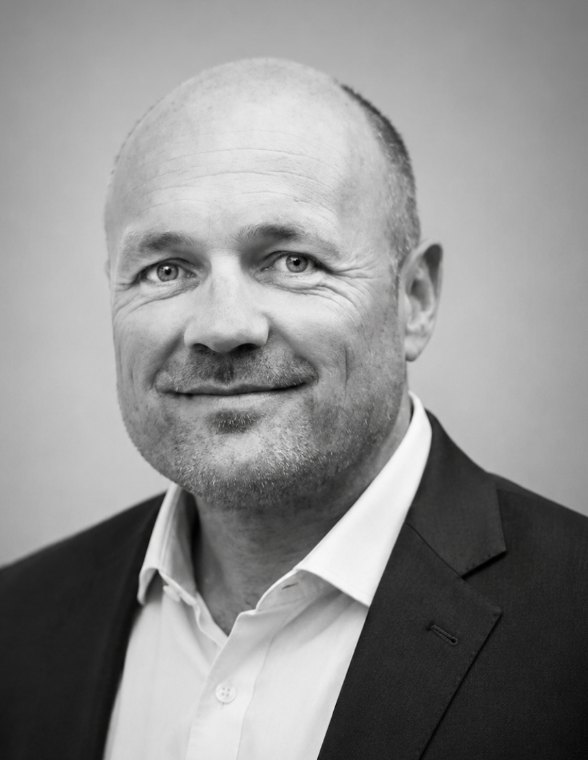
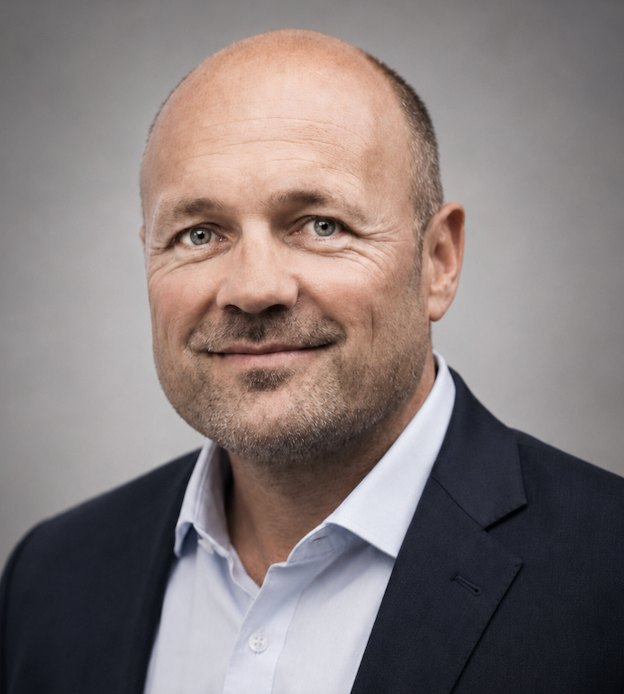
about: color board portraits + tightened bios
Replace the greyscale Munkhaugen/Svenkerud portraits with the colour
versions (re-optimized to ~50-65KB JPEG) and remove the source PNGs.
Condense the four board bios to two crisp sentences each (en + no) for a
more professional read in the 2x2 grid.

diff --git a/i18n.js b/i18n.js
@@ -894,15 +894,15 @@
       "about.board.s3.status": "Special Advisor",
       "about.board.s4.status": "Board Member",
       "about.board.s5.status": "Technical Director",
-      "about.board.s1.bio": "Erik Selin is the founder of Fastighets AB Balder, one of Europe's leading real estate companies. Since founding the company, he has built Balder into a listed property group with assets exceeding NOK 200 billion. Erik serves as Chairman and largest shareholder and is a prominent Nordic investor with extensive experience from real estate, capital markets and long-term company building. He also holds several board positions in listed companies.",
+      "about.board.s1.bio": "Founder, chairman and largest shareholder of Fastighets AB Balder, one of Europe's leading listed property groups, with assets exceeding NOK 200 billion. A prominent Nordic investor with deep roots in real estate and capital markets.",
       "about.board.s2.bio": "Vegard holds an MSc from the Norwegian School of Economics and has spent his entire career in real estate and property development. He has extensive operational experience from both project management and executive roles, and has played a key role in delivering some of Norway's largest development projects. Today, he leads Byggteknikk Utvikling AS, which is jointly owned with the Svendsen family.",
       "about.board.s3.bio": "Pål Morten holds a BBA from Trondheim Business School and has worked in real estate since 2005. He has held several key roles in the Norwegian real estate industry, including as CEO and co-owner of HENT's real estate platform. He founded Bolig Norge and continues to lead the company, which is jointly owned with Fastighets AB Balder.",
-      "about.board.s4.bio": "Magnus Svendsen is the CEO of Byggteknikk, a family office with investments across real estate, funds and technology. He has been an active angel investor in early-stage technology companies for more than 20 years, with investments including Tibber, Easee and Kiona. Magnus holds an MSc in Mechanical Engineering from NTNU, a Master's degree in Finance, and an MBA from the University of Newcastle, Australia.",
+      "about.board.s4.bio": "CEO of Byggteknikk, a family office investing across real estate, funds and technology. An active early-stage technology angel for over 20 years, with investments including Tibber, Easee and Kiona.",
       "about.board.s5.bio": "Kristian Nossum holds an engineering degree from Trondheim College of Engineering and has more than 30 years of experience from Skanska. He brings broad technical expertise across architecture, geotechnics, structural engineering, acoustics and building application processes. Kristian actively contributes to the development of Builtly's technical modules and quality-assures the platform's professional content.",
       "about.board.s6.name": "Roar Munkhaugen",
       "about.board.s7.name": "Tollef Svenkerud",
-      "about.board.s6.bio": "Roar Munkhaugen owns and leads Heimdal Bolig, one of Central Norway's largest residential developers, which he took over from the Heimdal Group. The Heimdal Group historically also held the contractor HENT — today part of Sentia ASA, a Nordic construction group listed on Oslo Børs and one of the region's largest contractors. Roar contributes decades of operational experience from large-scale residential development and construction.",
-      "about.board.s7.bio": "Tollef Svenkerud is the co-founder and co-owner of Fredensborg Bolig, which he owns together with Ivar Tollefsen's Fredensborg AS. With more than 20 years in real estate, he has built and sold over 1,500 homes with a combined sales value exceeding NOK 5 billion, and has founded and owned several companies along the way. He is particularly active in acquisition, transactions and financing. Fredensborg Bolig is a nationwide developer with thousands of homes under development.",
+      "about.board.s6.bio": "Owner and CEO of Heimdal Bolig, one of Central Norway's largest residential developers, which he took over from the Heimdal Group. Brings decades of operational experience from large-scale residential development.",
+      "about.board.s7.bio": "Co-founder and co-owner of Fredensborg Bolig, a nationwide developer with thousands of homes in its pipeline. With over 20 years in real estate, he has delivered more than 1,500 homes worth over NOK 5 billion, focused on acquisition, transactions and financing.",
       "about.team.smark.num": "§ 05",
       "about.team.smark.label": "Technical leadership",
       "about.team.smark.tag": "Technical depth in daily operations",
@@ -2783,15 +2783,15 @@
       "about.board.s3.status": "Spesialrådgiver",
       "about.board.s4.status": "Styremedlem",
       "about.board.s5.status": "Faglig leder",
-      "about.board.s1.bio": "Erik Selin er grunnleggeren av Fastighets AB Balder, et av Europas ledende eiendomsselskaper. Siden etableringen har han bygget Balder til et børsnotert eiendomskonsern med eiendomsverdier på over 200 milliarder kroner. Erik er styreleder og største eier i selskapet, og er en betydelig nordisk investor med bred erfaring fra eiendom, kapitalmarkeder og langsiktig selskapsbygging. Han har også flere styreverv i børsnoterte selskaper.",
+      "about.board.s1.bio": "Grunnlegger, styreleder og største aksjonær i Fastighets AB Balder, et av Europas ledende børsnoterte eiendomskonsern, med verdier på over 200 milliarder kroner. En markant nordisk investor med dype røtter i eiendom og kapitalmarkeder.",
       "about.board.s2.bio": "Vegard har en MSc fra Norges Handelshøyskole og har hele sin karriere jobbet innen eiendom og eiendomsutvikling. Han har bred operativ erfaring fra både prosjektleder- og lederroller, og har vært sentral i gjennomføringen av flere av Norges største utviklingsprosjekter. I dag leder han Byggteknikk Utvikling AS, som eies i fellesskap med familien Svendsen.",
       "about.board.s3.bio": "Pål Morten har en BBA fra Handelshøyskolen i Trondheim og har arbeidet med eiendom siden 2005. Han har hatt flere sentrale roller i norsk eiendomsbransje, blant annet som daglig leder og medeier i HENTs eiendomssatsing. Han etablerte Bolig Norge og leder fortsatt selskapet, som eies i fellesskap med Fastighets AB Balder.",
-      "about.board.s4.bio": "Magnus Svendsen er daglig leder i Byggteknikk, et familieselskap med investeringer innen eiendom, fond og teknologi. Han har også vært en aktiv engleinvestor i tidligfase teknologiselskaper i over 20 år, med investeringer i blant annet Tibber, Easee og Kiona. Magnus har sivilingeniørgrad i maskinteknikk fra NTNU, mastergrad i finans og MBA fra University of Newcastle i Australia.",
+      "about.board.s4.bio": "Daglig leder i Byggteknikk, et family office med investeringer innen eiendom, fond og teknologi. Aktiv tidligfase-teknologiinvestor i over 20 år, med investeringer som Tibber, Easee og Kiona.",
       "about.board.s5.bio": "Kristian Nossum er utdannet ingeniør fra Trondheim tekniske høgskole og har over 30 års erfaring fra Skanska. Han har en sjelden bredde i teknisk kompetanse, med erfaring fra ansvarsrett innen seks fagområder: ARK, GEO, RIG, RIB, RIAKU og SØK. Kristian bidrar aktivt til utviklingen av Builtlys tekniske moduler og kvalitetssikrer plattformens faglige innhold.",
       "about.board.s6.name": "Roar Munkhaugen",
       "about.board.s7.name": "Tollef Svenkerud",
-      "about.board.s6.bio": "Roar Munkhaugen eier og leder Heimdal Bolig, en av Midt-Norges største boligutviklere, som han overtok fra Heimdal Gruppen. Heimdal Gruppen hadde tidligere også entreprenøren HENT — i dag en del av Sentia ASA, et nordisk byggekonsern notert på Oslo Børs og en av regionens største entreprenører. Roar bidrar med lang operativ erfaring fra storskala boligutvikling og entreprenørvirksomhet.",
-      "about.board.s7.bio": "Tollef Svenkerud er medgründer og medeier av Fredensborg Bolig, som han eier sammen med Ivar Tollefsens Fredensborg AS. Med over 20 års erfaring fra eiendom har han bygget og solgt mer enn 1 500 boliger til en samlet salgsverdi på over 5 milliarder kroner, og har grunnlagt og eid flere selskaper underveis. Han er særlig aktiv innen akkvisisjon, transaksjoner og finansiering. Fredensborg Bolig er en landsdekkende boligutvikler med flere tusen boliger under utvikling.",
+      "about.board.s6.bio": "Eier og daglig leder i Heimdal Bolig, en av Midt-Norges største boligutviklere, som han overtok fra Heimdal Gruppen. Har flere tiår med operativ erfaring fra storskala boligutvikling.",
+      "about.board.s7.bio": "Medgründer og medeier i Fredensborg Bolig, en landsdekkende utbygger med tusenvis av boliger under utvikling. Med over 20 år i eiendom har han levert mer enn 1 500 boliger til en verdi av over 5 milliarder kroner, med vekt på oppkjøp, transaksjoner og finansiering.",
       "about.team.smark.num": "§ 05",
       "about.team.smark.label": "Faglig ledelse",
       "about.team.smark.tag": "Teknisk dybde i daglig drift",

diff --git a/about.html b/about.html
@@ -930,7 +930,7 @@ footer{background:var(--bg-soft);padding:64px 0 28px;color:var(--ink-soft);borde
 <div class="seat-body">
 <div class="seat-role-tag" data-i18n="about.seat.role.chair">Chair · Board</div>
 <h3 class="seat-name" data-i18n="about.board.s4.name">Magnus Svendsen</h3>
-<p class="seat-bio" data-i18n="about.board.s4.bio">Magnus Svendsen is the CEO of Byggteknikk, a family office with investments across real estate, funds and technology. He has been an active angel investor in early-stage technology companies for more than 20 years, with investments including Tibber, Easee and Kiona. Magnus holds an MSc in Mechanical Engineering from NTNU, a Master's degree in Finance, and an MBA from the University of Newcastle, Australia.</p>
+<p class="seat-bio" data-i18n="about.board.s4.bio">CEO of Byggteknikk, a family office investing across real estate, funds and technology. An active early-stage technology angel for over 20 years, with investments including Tibber, Easee and Kiona.</p>
 </div>
 </article>
 
@@ -942,7 +942,7 @@ footer{background:var(--bg-soft);padding:64px 0 28px;color:var(--ink-soft);borde
 <div class="seat-body">
 <div class="seat-role-tag" data-i18n="about.seat.role.advisor">Board Member</div>
 <h3 class="seat-name" data-i18n="about.board.s1.name">Erik Selin</h3>
-<p class="seat-bio" data-i18n="about.board.s1.bio">Erik Selin is the founder of Fastighets AB Balder, one of Europe's leading real estate companies. Since founding the company, he has built Balder into a listed property group with assets exceeding NOK 200 billion. Erik serves as Chairman and largest shareholder and is a prominent Nordic investor with extensive experience from real estate, capital markets and long-term company building. He also holds several board positions in listed companies.</p>
+<p class="seat-bio" data-i18n="about.board.s1.bio">Founder, chairman and largest shareholder of Fastighets AB Balder, one of Europe's leading listed property groups, with assets exceeding NOK 200 billion. A prominent Nordic investor with deep roots in real estate and capital markets.</p>
 </div>
 </article>
 
@@ -954,7 +954,7 @@ footer{background:var(--bg-soft);padding:64px 0 28px;color:var(--ink-soft);borde
 <div class="seat-body">
 <div class="seat-role-tag" data-i18n="about.seat.role.advisor">Board Member</div>
 <h3 class="seat-name" data-i18n="about.board.s6.name">Roar Munkhaugen</h3>
-<p class="seat-bio" data-i18n="about.board.s6.bio">Roar Munkhaugen owns and leads Heimdal Bolig, one of Central Norway's largest residential developers, which he took over from the Heimdal Group. The Heimdal Group historically also held the contractor HENT — today part of Sentia ASA, a Nordic construction group listed on Oslo Børs and one of the region's largest contractors. Roar contributes decades of operational experience from large-scale residential development and construction.</p>
+<p class="seat-bio" data-i18n="about.board.s6.bio">Owner and CEO of Heimdal Bolig, one of Central Norway's largest residential developers, which he took over from the Heimdal Group. Brings decades of operational experience from large-scale residential development.</p>
 </div>
 </article>
 
@@ -966,7 +966,7 @@ footer{background:var(--bg-soft);padding:64px 0 28px;color:var(--ink-soft);borde
 <div class="seat-body">
 <div class="seat-role-tag" data-i18n="about.seat.role.advisor">Board Member</div>
 <h3 class="seat-name" data-i18n="about.board.s7.name">Tollef Svenkerud</h3>
-<p class="seat-bio" data-i18n="about.board.s7.bio">Tollef Svenkerud is the co-founder and co-owner of Fredensborg Bolig, which he owns together with Ivar Tollefsen's Fredensborg AS. With more than 20 years in real estate, he has built and sold over 1,500 homes with a combined sales value exceeding NOK 5 billion, and has founded and owned several companies along the way. He is particularly active in acquisition, transactions and financing. Fredensborg Bolig is a nationwide developer with thousands of homes under development.</p>
+<p class="seat-bio" data-i18n="about.board.s7.bio">Co-founder and co-owner of Fredensborg Bolig, a nationwide developer with thousands of homes in its pipeline. With over 20 years in real estate, he has delivered more than 1,500 homes worth over NOK 5 billion, focused on acquisition, transactions and financing.</p>
 </div>
 </article>
 